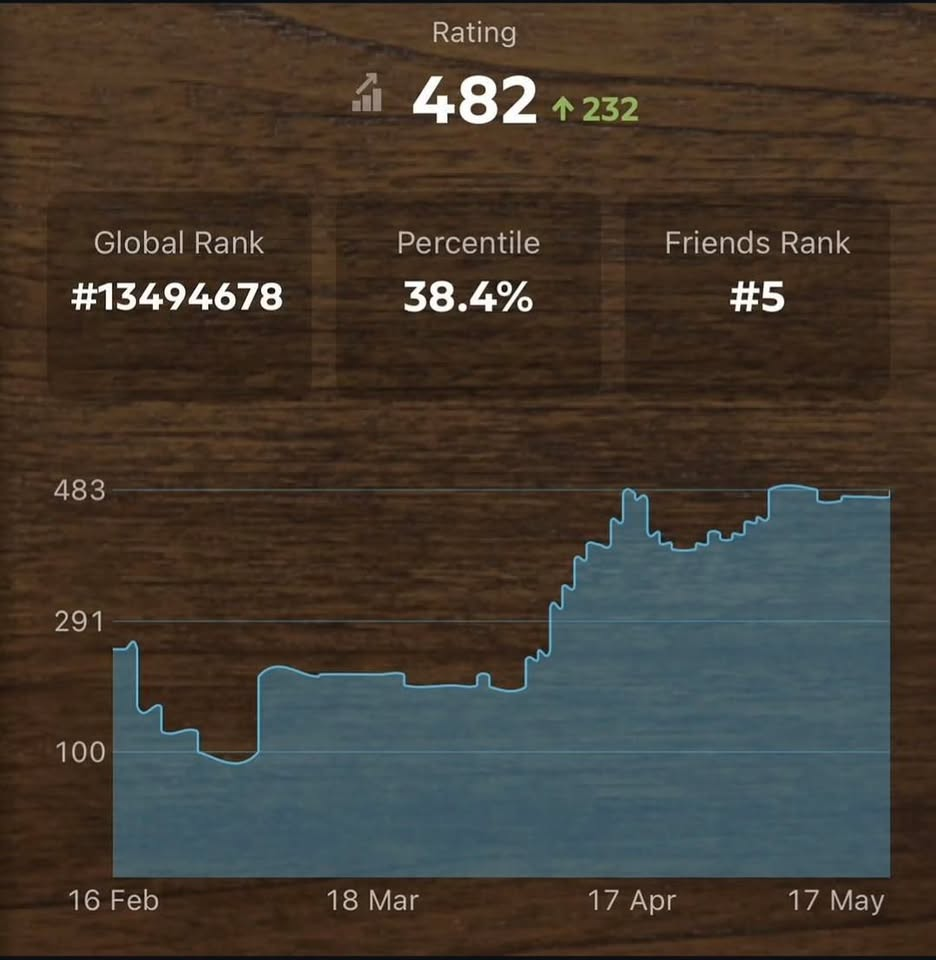
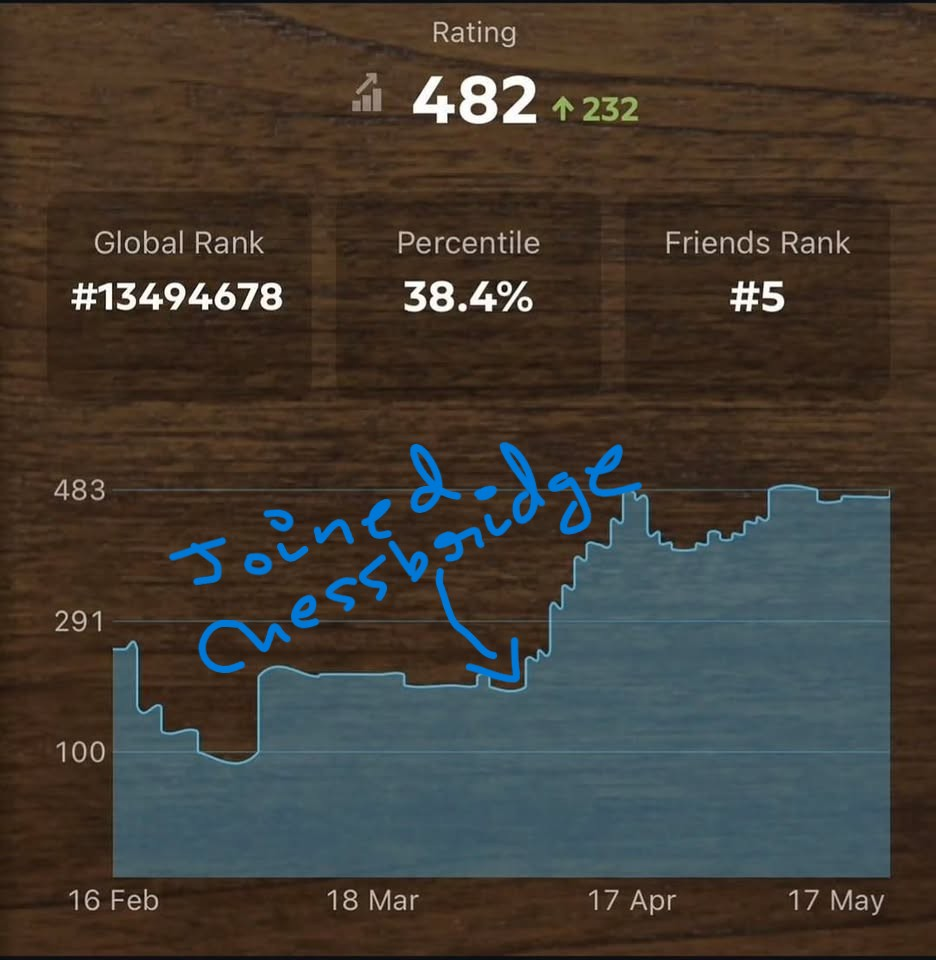
modified images

Changed region(s): [[0.1859, 0.4375, 0.6816, 0.7188], [0.4957, 0.6562, 0.5577, 0.7188]]

diff --git a/index.html b/index.html
@@ -405,20 +405,60 @@
       list-style: none;
     }
 
+    .reviews-scroll-shell {
+      position: relative;
+      margin-top: 20px;
+    }
+
+    .reviews-scroll-controls {
+      position: absolute;
+      inset: 0;
+      display: flex;
+      align-items: center;
+      justify-content: space-between;
+      padding: 0 10px;
+      pointer-events: none;
+      z-index: 2;
+    }
+
+    .review-scroll-btn {
+      display: inline-flex;
+      align-items: center;
+      justify-content: center;
+      width: 40px;
+      height: 40px;
+      border: 1px solid rgba(255, 255, 255, 0.12);
+      border-radius: 999px;
+      background: rgba(9, 20, 44, 0.72);
+      color: var(--text);
+      cursor: pointer;
+      font-size: 1.2rem;
+      line-height: 1;
+      pointer-events: auto;
+      transition: background 0.2s ease, transform 0.2s ease;
+      box-shadow: 0 8px 24px rgba(0, 0, 0, 0.18);
+    }
+
+    .review-scroll-btn:hover {
+      background: rgba(20, 32, 60, 0.9);
+      transform: translateY(-1px);
+    }
+
     .projects-grid {
       display: flex;
       gap: 18px;
-      margin-top: 20px;
       min-width: max-content;
-      padding-bottom: 8px;
+      padding: 8px 52px 8px;
     }
 
     .projects-grid-wrapper {
       overflow-x: auto;
       overflow-y: hidden;
-      margin-top: 20px;
       scrollbar-width: thin;
       -webkit-overflow-scrolling: touch;
+      touch-action: pan-x;
+      scroll-snap-type: x proximity;
+      outline: none;
     }
 
     .project-card {
@@ -454,12 +494,20 @@
       max-width: 120px;
       height: 72px;
       margin: 0 auto 16px;
-      object-fit: cover;
-      object-position: left center;
+      object-fit: contain;
+      object-position: center;
       border-radius: 12px;
       border: 1px solid rgba(255, 255, 255, 0.1);
       background: var(--slot-bg);
       cursor: pointer;
+    }
+
+    .project-card:nth-child(2) .review-image-slot {
+      object-position: center;
+    }
+
+    .project-card:last-child .review-image-slot {
+      object-position: center;
     }
 
     .lightbox-overlay {
@@ -908,8 +956,13 @@
     <section id="Reviews/Statements" role="tabpanel" tabindex="0" aria-labelledby="Reviews/Statements-tab" hidden>
       <h2>Reviews/Statements</h2>
       <p>Some reviewers featured here prefer to have their identities anonymous.</p>
-      <div class="projects-grid-wrapper">
-        <div class="projects-grid">
+      <div class="reviews-scroll-shell">
+        <div class="reviews-scroll-controls" aria-label="Review slider controls">
+          <button class="review-scroll-btn" type="button" data-direction="left" aria-label="Scroll reviews left">&#8592;</button>
+          <button class="review-scroll-btn" type="button" data-direction="right" aria-label="Scroll reviews right">&#8594;</button>
+        </div>
+        <div class="projects-grid-wrapper" tabindex="0" aria-label="Scrollable reviews carousel">
+          <div class="projects-grid">
         <article class="project-card">
           <h3>Larry, joined 1.5 years ago</h3>
           <img class="review-image-slot" src="Images/larrygraph.png" alt="Larry review image">
@@ -940,6 +993,7 @@
           <p>Project ChessBridge is an amazing server, I was there when it all started. All the coaches and staff are kind and willing to help when asked. I have gained 300 elo since I joined the server, but I couldn’t achieve that without the help of my fellow peers, thank you for having me on Project ChessBridge! </p>
           <span>Elo increase: 100 to 500</span>
         </article>
+          </div>
         </div>
       </div>
     </section>
@@ -1050,6 +1104,40 @@
       const nextIndex = (currentThemeIndex + 1) % themeSequence.length;
       applyTheme(nextIndex);
     }, 15000);
+
+    const reviewSlider = document.querySelector('.projects-grid-wrapper');
+    const reviewButtons = document.querySelectorAll('.review-scroll-btn');
+
+    function scrollReviews(direction) {
+      if (!reviewSlider) return;
+      const firstCard = reviewSlider.querySelector('.project-card');
+      const gap = 18;
+      const amount = firstCard ? firstCard.getBoundingClientRect().width + gap : 320;
+      reviewSlider.scrollBy({
+        left: direction * amount,
+        behavior: 'smooth'
+      });
+    }
+
+    reviewButtons.forEach((button) => {
+      button.addEventListener('click', () => {
+        const direction = button.dataset.direction === 'right' ? 1 : -1;
+        scrollReviews(direction);
+      });
+    });
+
+    if (reviewSlider) {
+      reviewSlider.addEventListener('keydown', (event) => {
+        if (event.key === 'ArrowRight') {
+          event.preventDefault();
+          scrollReviews(1);
+        }
+        if (event.key === 'ArrowLeft') {
+          event.preventDefault();
+          scrollReviews(-1);
+        }
+      });
+    }
 
     tabs.forEach((tab, index) => {
       tab.addEventListener('click', () => showTab(tab.dataset.tab));
